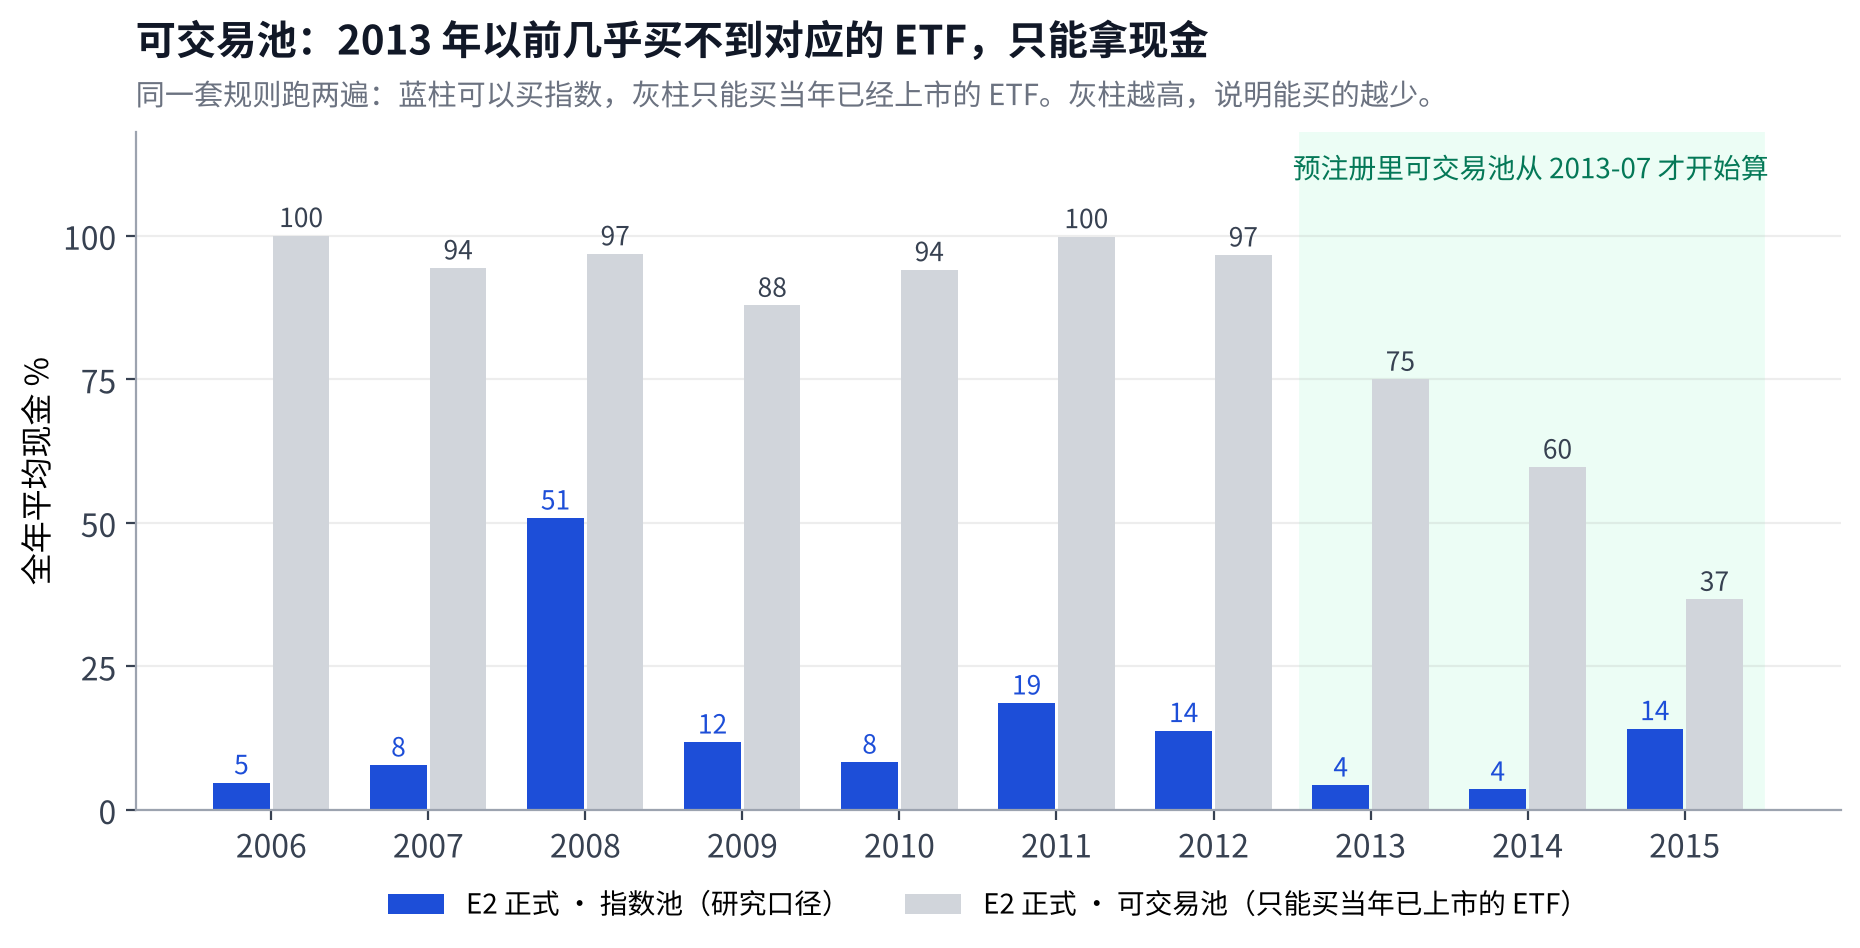
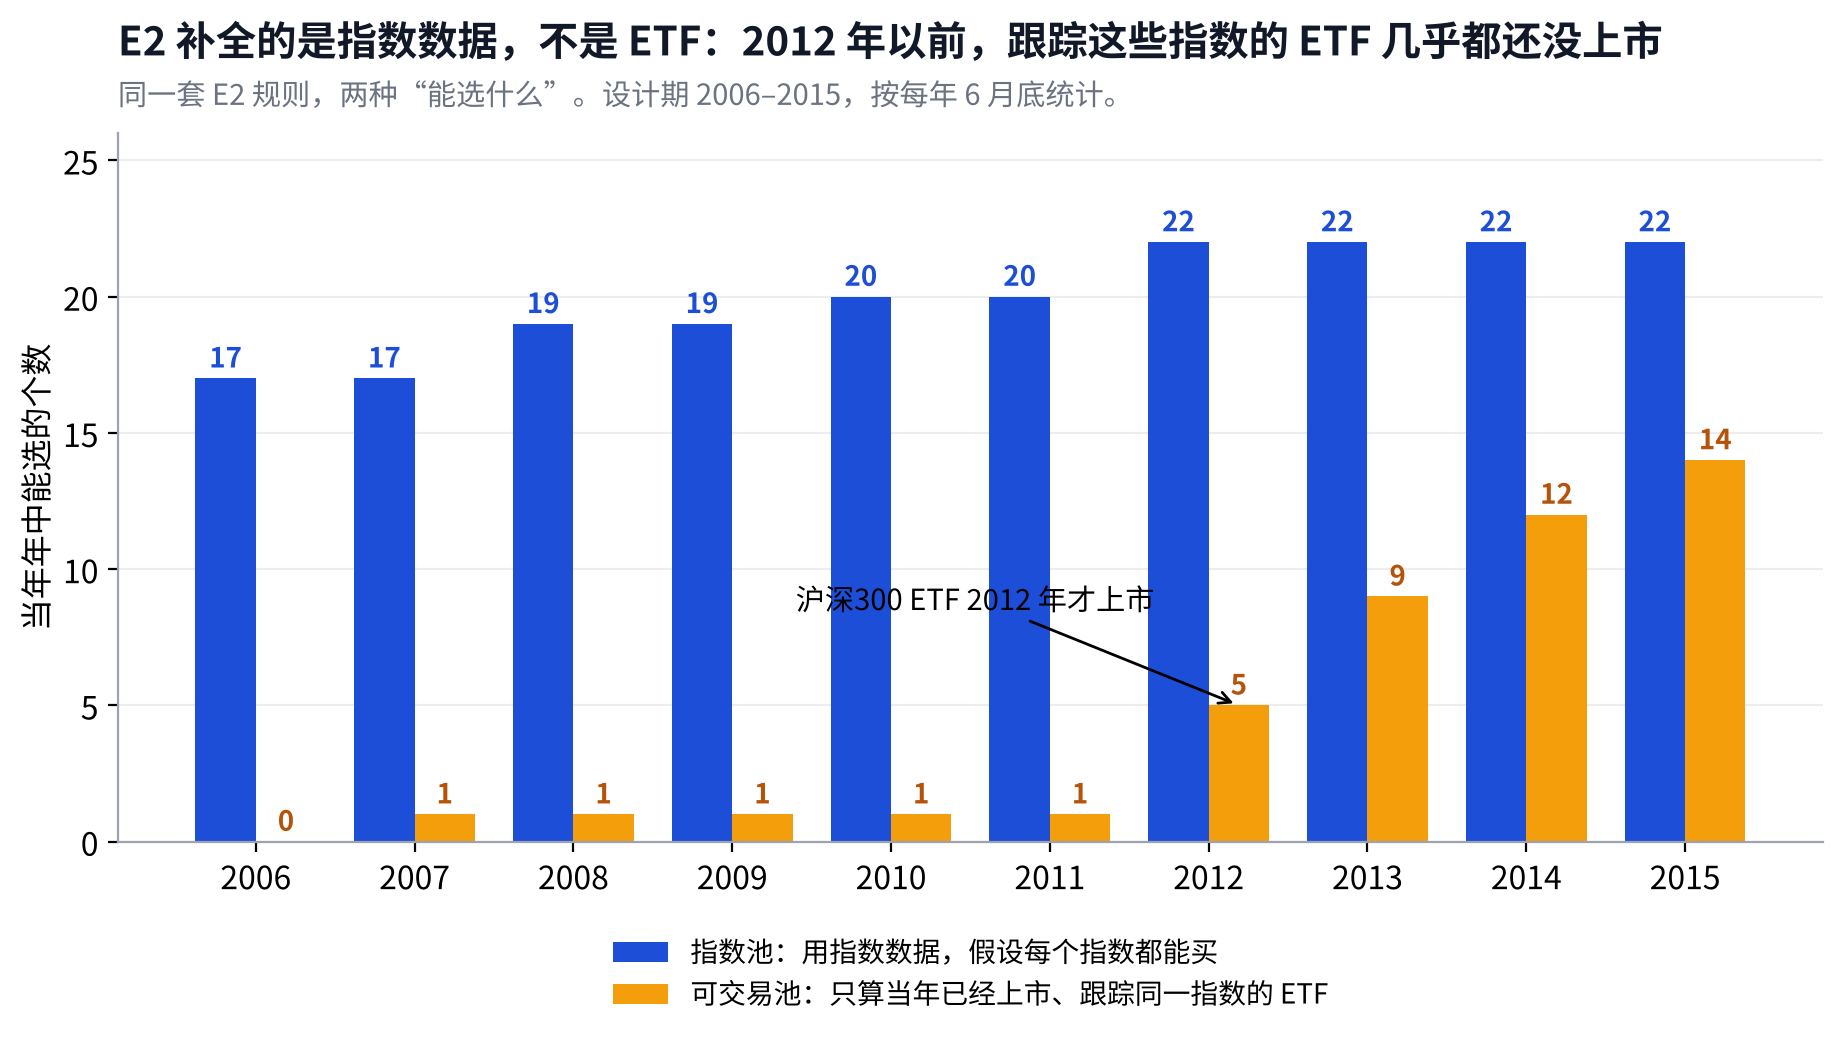
看板 3.5/3.6 重写：2009 回场一图三要点；指数池与可交易池对照
Claude-Session: https://claude.ai/code/session_01PmXaEwvnhMrSzwWPeiEpbL

diff --git a/results/v3/diag/2026-10-27-owner-board/charts_fix.py b/results/v3/diag/2026-10-27-owner-board/charts_fix.py
@@ -1,0 +1,45 @@
+import pickle, numpy as np, pandas as pd, matplotlib
+matplotlib.use('Agg'); import matplotlib.pyplot as plt
+plt.rcParams.update({'font.family':['Noto Sans CJK SC'],'axes.unicode_minus':False,'axes.spines.top':False,'axes.spines.right':False,
+ 'axes.grid':True,'grid.alpha':.22,'font.size':11.5,'axes.edgecolor':'#9ca3af'})
+INK,MUTED='#111827','#6b7280'
+def title(ax,t,sub=None):
+    ax.set_title(t,loc='left',fontsize=14.5,weight='bold',color=INK,pad=28 if sub else 12)
+    if sub: ax.text(0,1.035,sub,transform=ax.transAxes,fontsize=10.5,color=MUTED,va='bottom')
+def save(fig,n): fig.savefig(f'out/{n}.png',dpi=200,bbox_inches='tight',facecolor='white'); plt.close(fig)
+# ---- b6 简化版：上=沪深300，下=每月防守仓位
+H=pd.read_csv('P1-held.csv',index_col=0,parse_dates=True)
+dfn=H[['cash','cgb-5y','cgb-10y','gold']].sum(axis=1)
+m=(dfn.loc['2008-07':'2009-12'].resample('ME').mean()*100)
+P=pickle.load(open('data.pkl','rb'))[0]['沪深300'].loc['2008-07-01':'2009-12-31']
+fig,(a1,a2)=plt.subplots(2,1,figsize=(11,6.2),gridspec_kw=dict(height_ratios=[1,1.25],hspace=.18))
+a1.plot(P.index,P/P.iloc[0],color=INK,lw=2.2)
+lo=P.idxmin(); a1.plot([lo],[P.min()/P.iloc[0]],'o',color='#c2410c',ms=7)
+a1.annotate('2008-11-04 见底',xy=(lo,P.min()/P.iloc[0]),xytext=(lo-pd.Timedelta(days=60),0.42),fontsize=10.5,color='#c2410c',weight='bold')
+a1.axvspan(pd.Timestamp('2009-01-01'),pd.Timestamp('2009-06-30'),color='#fde68a',alpha=.35,lw=0)
+a1.text(pd.Timestamp('2009-01-08'),1.38,'2009 上半年：沪深300 +55% 的反弹',fontsize=10.5,color='#92400e')
+a1.set_ylabel('沪深300\n（7 月初 = 1）',fontsize=10); a1.set_xlim(pd.Timestamp('2008-06-15'),pd.Timestamp('2010-01-15')); a1.set_ylim(0.3,(P/P.iloc[0]).max()*1.08)
+x=m.index-pd.Timedelta(days=14)
+cols=['#f59e0b' if pd.Timestamp('2009-01-01')<=d<=pd.Timestamp('2009-06-30') else '#9ca3af' for d in m.index]
+a2.bar(x,m.values,width=22,color=cols,zorder=2)
+for xx,v in zip(x,m.values): a2.text(xx,v+2,f'{v:.0f}',ha='center',fontsize=9.5,color=INK)
+a2.set_ylim(0,112); a2.set_ylabel('防守仓位 %\n（现金+国债+黄金）',fontsize=10); a2.set_xlim(a1.get_xlim())
+a2.text(pd.Timestamp('2009-01-08'),95,'上半年平均 43%：反弹已经开始，钱还没回来',fontsize=10.5,weight='bold',color='#92400e')
+title(a1,'2009 年少赚的 39 个百分点，全在上半年：见底之后，钱迟迟没回到场内',
+      '上：沪深300 走势。下：E2 正式版每月平均有多少钱放在现金、国债和黄金里（越高 = 越没在场）。')
+save(fig,'b6-2009')
+# ---- b5 新版：每年能选几个
+yrs=[2006,2007,2008,2009,2010,2011,2012,2013,2014,2015]
+idx=[17,17,19,19,20,20,22,22,22,22]; trd=[0,1,1,1,1,1,5,9,12,14]
+fig,ax=plt.subplots(figsize=(11,4.6)); xx=np.arange(len(yrs)); w=.38
+ax.bar(xx-w/2,idx,w,color='#1d4ed8',label='指数池：用指数数据，假设每个指数都能买',zorder=2)
+ax.bar(xx+w/2,trd,w,color='#f59e0b',label='可交易池：只算当年已经上市、跟踪同一指数的 ETF',zorder=2)
+for i,(a,b) in enumerate(zip(idx,trd)):
+    ax.text(i-w/2,a+.4,str(a),ha='center',fontsize=10,color='#1d4ed8',weight='bold'); ax.text(i+w/2,b+.4,str(b),ha='center',fontsize=10,color='#b45309',weight='bold')
+ax.set_xticks(xx,[str(y) for y in yrs]); ax.set_ylim(0,26); ax.set_ylabel('当年年中能选的个数'); ax.grid(axis='x',visible=False)
+ax.legend(frameon=False,loc='upper center',bbox_to_anchor=(.5,-.1),ncol=1,fontsize=10)
+ax.annotate('沪深300 ETF 2012 年才上市',xy=(6+w/2,5),xytext=(3.4,8.5),fontsize=10.5,arrowprops=dict(arrowstyle='->',lw=1))
+title(ax,'E2 补全的是指数数据，不是 ETF：2012 年以前，跟踪这些指数的 ETF 几乎都还没上市',
+      '同一套 E2 规则，两种“能选什么”。设计期 2006–2015，按每年 6 月底统计。')
+save(fig,'b5-tradable')
+print('ok')
